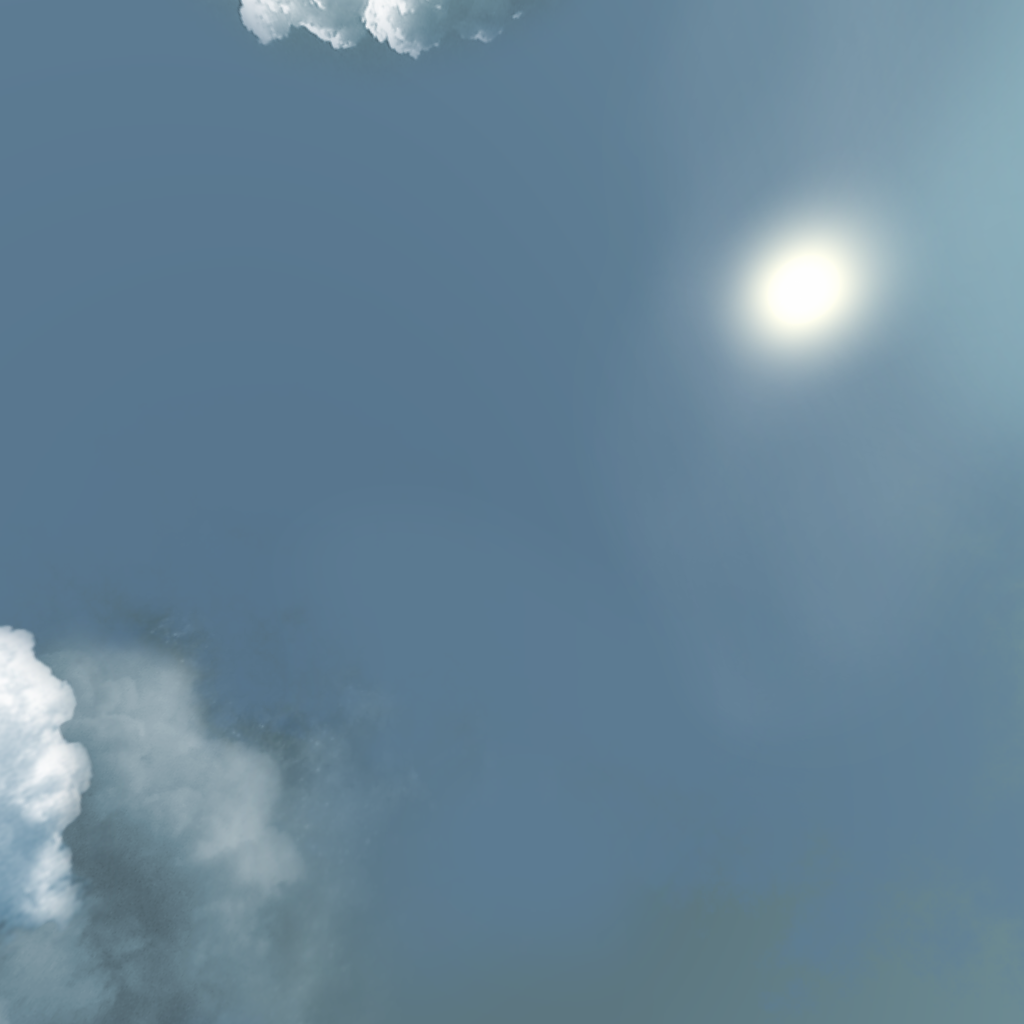
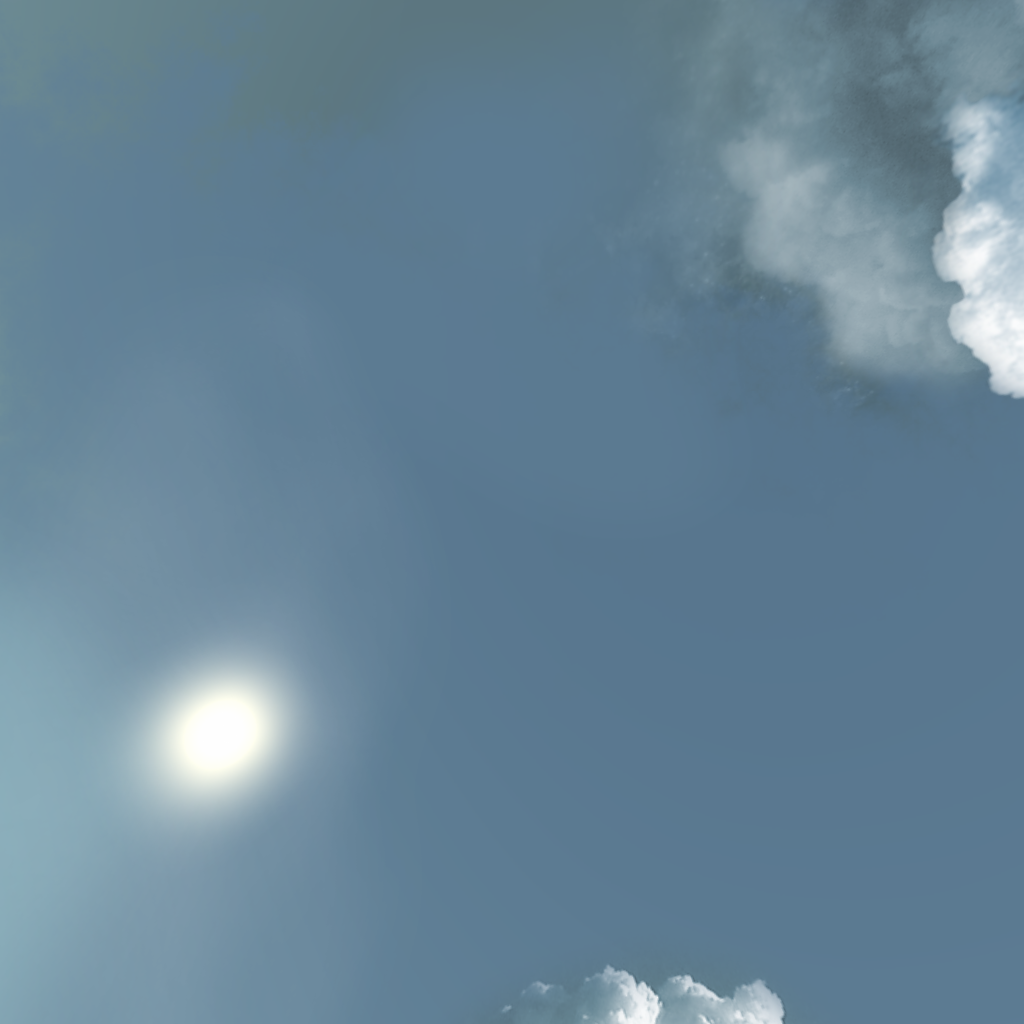
Fix skybox so that top image that is RGBA is correctly loaded

diff --git a/src/skybox/Skybox.cpp b/src/skybox/Skybox.cpp
@@ -13,10 +13,11 @@ void Skybox::loadCubemap(const char* skyboxName) {
 
     // prepare faces
     std::vector<std::filesystem::path> faces;
+    faces.reserve(6);
     faces.push_back(std::move(data_dir() /= path("resources/images/skybox") /= path(skyboxName) /= path("left.png")));
     faces.push_back(std::move(data_dir() /= path("resources/images/skybox") /= path(skyboxName) /= path("right.png")));
-    faces.push_back(std::move(data_dir() /= path("resources/images/skybox") /= path(skyboxName) /= path("top.png")));
     faces.push_back(std::move(data_dir() /= path("resources/images/skybox") /= path(skyboxName) /= path("bottom.png")));
+    faces.push_back(std::move(data_dir() /= path("resources/images/skybox") /= path(skyboxName) /= path("top.png")));
     faces.push_back(std::move(data_dir() /= path("resources/images/skybox") /= path(skyboxName) /= path("front.png")));
     faces.push_back(std::move(data_dir() /= path("resources/images/skybox") /= path(skyboxName) /= path("back.png")));
 
@@ -26,14 +27,20 @@ void Skybox::loadCubemap(const char* skyboxName) {
 
     for (unsigned int i = 0; i < faces.size(); i++) {
         auto image = Image{faces.at(i)};
+        GLenum format; 
+        if (image.getNrChannels() > 3) {
+            format = GL_RGBA;
+        } else {
+            format = GL_RGB;
+        }
         glTexImage2D(
             GL_TEXTURE_CUBE_MAP_POSITIVE_X + i,
             0,
-            GL_RGB,
+            GL_RGBA,
             image.getWidth(),
             image.getHeight(),
             0,
-            GL_RGB,
+            format,
             GL_UNSIGNED_BYTE,
             image.getData()
         );

diff --git a/src/main.cpp b/src/main.cpp
@@ -127,6 +127,7 @@ int main() {
     // Player
     // -------------------
     std::shared_ptr<AnimatedModel> wolf = std::make_shared<AnimatedModel>(data_dir() /= path("resources/objects/animals/wolf3/Wolf.fbx"));
+    // running is 3
     wolf->SetAnimationIndex(3);
     Player player(
         camera,

diff --git a/src/images/Image.h b/src/images/Image.h
@@ -23,6 +23,7 @@ public:
     int getWidth() const { return width; }
     int getHeight() const { return height; }
     const unsigned char* getData() const { return data; }
+    const int getNrChannels() { return nrChannels; }
 };
 
 
